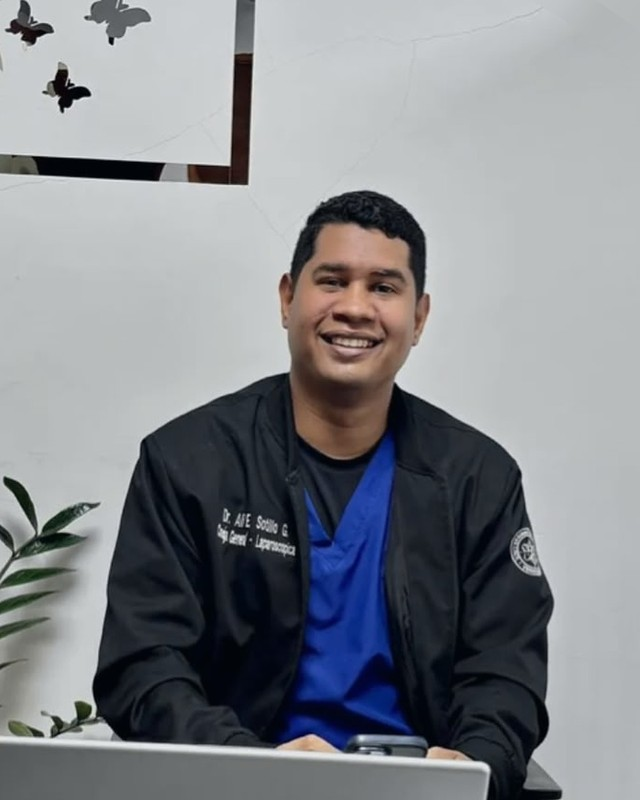
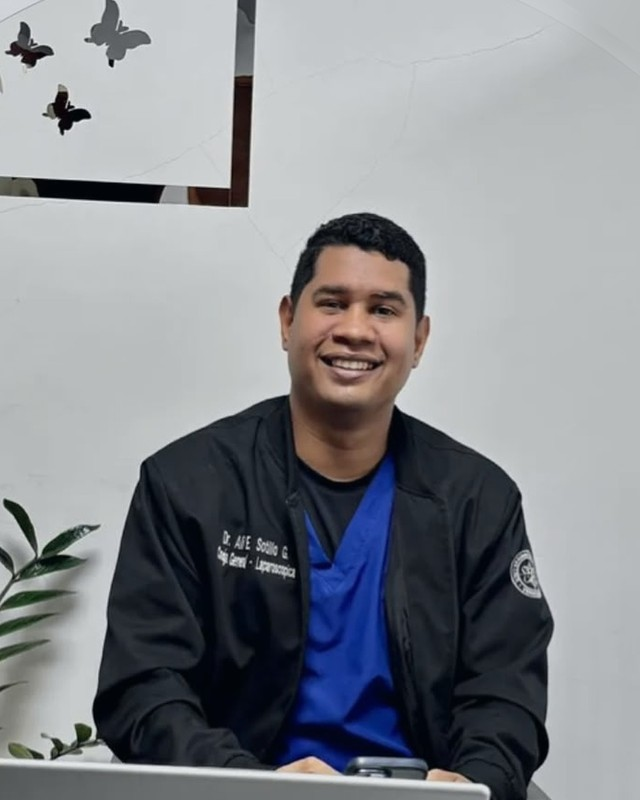
Corregir conteo a 15 ponentes y mejorar recorte de fotos circulares (Sotillo, Vásquez)
Suaviza la costura visible del relleno de fondo en fotos circulares y ajusta el encuadre para no cortar la cabeza.

diff --git a/index.html b/index.html
@@ -332,7 +332,7 @@ footer .wrap{display:flex;flex-wrap:wrap;gap:20px;align-items:center;justify-con
     <div class="pillars rv">
       <div class="pillar"><div class="n">1 día</div><p>de ciencia, 27 de noviembre de 2026</p></div>
       <div class="pillar"><div class="n">4</div><p>bloques académicos</p></div>
-      <div class="pillar"><div class="n">14</div><p>ponentes y conversatorio final</p></div>
+      <div class="pillar"><div class="n">15</div><p>ponentes y conversatorio final</p></div>
       <div class="pillar"><div class="n">360º</div><p>actualización y emergencias</p></div>
     </div>
   </div>
